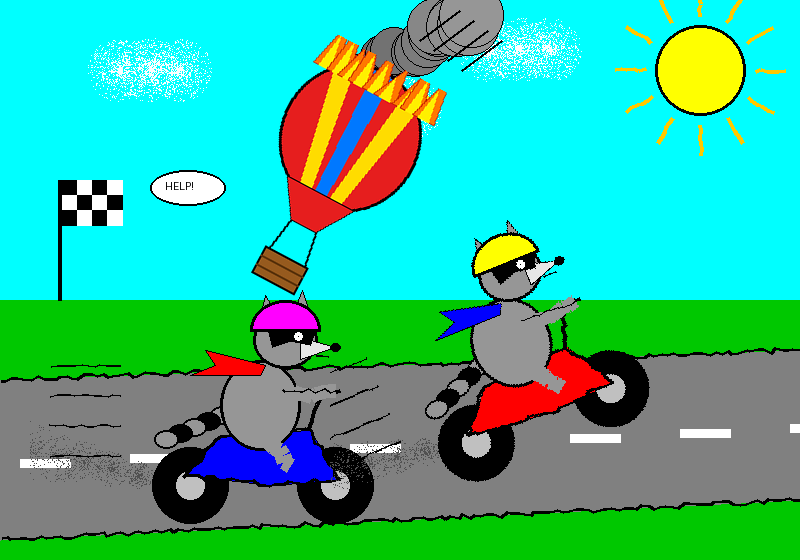
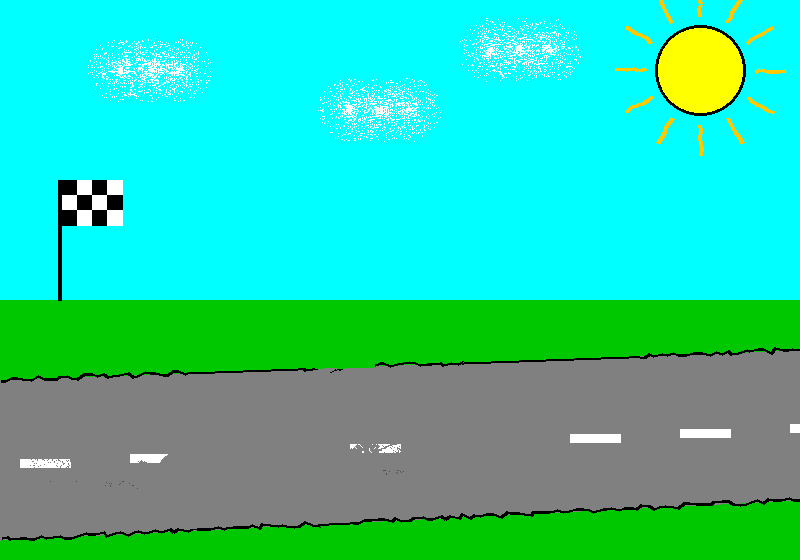
Beta Desktop: Waschbären fahren weg, Ballon explodiert, Pfau frisst ihn
Claude-Session: https://claude.ai/code/session_015oDxNVAJe7JpdMubbo53ma

Changed region(s): [[0.0312, 0.0, 0.8125, 0.9411], [0.1875, 0.3036, 0.2812, 0.3946], [0.0625, 0.6375, 0.0938, 0.6679]]

diff --git a/beta/index.html b/beta/index.html
@@ -350,9 +350,44 @@ main{flex:1;overflow-x:clip;display:grid;grid-template-columns:1fr minmax(320px,
   .key.en{text-shadow:none}
 }
 .key.held{background:var(--yellow);color:var(--ink);border-color:var(--yellow);transform:translateY(3px);border-bottom-width:3px}
+/* Desktop-Szene (User 28.11.): Waschbären fahren nach 30 s weg, Ballon stürzt nach 60 s ab, Pfau frisst ihn nach 90 s */
+.scn{display:none}
+@media (min-width:861px){
+  body{background:transparent!important}
+  .scn{display:block;position:fixed;left:0;top:0;width:800px;height:560px;transform-origin:0 0;z-index:-1;pointer-events:none;overflow:visible}
+  .scn img{position:absolute;display:block;user-select:none}
+  .scn .wb{left:0;top:0;width:800px;height:560px}
+  .scn .bl{left:474px;top:40px;width:132px;transform-origin:50% 100%;animation:bl-sway 4s ease-in-out infinite alternate}
+  .scn .bm,.scn .br{opacity:0}
+  .scn .bm{left:380px;top:190px;width:320px}
+  .scn .br{left:480px;top:305px;width:120px}
+  .scn .pf{position:absolute;left:-600px;top:-76px;width:560px;height:439px;transform-origin:62% 96%}
+  .scn .pf img{left:0;top:0;width:560px}
+  .scn .pf.st img{top:-7px}.scn .pf .p1{visibility:hidden}.scn .pf.st .p1{visibility:visible}.scn .pf.st .p0{visibility:hidden}
+}
+@keyframes bl-sway{from{rotate:-4deg}to{rotate:4deg}}
 </style>
 </head>
 <body>
+<div class="scn" aria-hidden="true"><img class="wb" src="/beta/waschbaeren.png" alt=""><img class="br" src="/beta/brand.png" alt=""><img class="bl" src="/beta/ballon.png" alt=""><img class="bm" src="/beta/boom.png" alt=""><div class="pf"><img class="p0" src="/beta/pfau0.png" alt=""><img class="p1" src="/beta/pfau1.png" alt=""></div></div>
+<script>
+(()=>{const q=new URLSearchParams(location.search),T=+(q.get("scn")||1);/* ?scn=10 = 10x schneller zum Testen */
+const S=document.querySelector(".scn");if(!S)return;const $=c=>S.querySelector(c);
+const fit=()=>{const k=Math.max(innerWidth/800,innerHeight/560);S.style.transform=`translate(${(innerWidth-800*k)/2}px,${(innerHeight-560*k)/2}px) scale(${k})`};fit();addEventListener("resize",fit);
+const at=(sec,f)=>setTimeout(f,sec*1000/T),A=(el,kf,o)=>el.animate(kf,Object.assign({fill:"forwards"},o,{duration:o.duration/T,delay:(o.delay||0)/T}));
+at(30,()=>{const w=$(".wb");A(w,[{transform:"translate(0,0) rotate(0)"},{transform:"translate(-14px,1px) rotate(-1deg)",offset:.12},{transform:"translate(1100px,-30px) rotate(2deg)"}],{duration:3200,easing:"cubic-bezier(.5,0,.9,.6)"})});
+at(60,()=>{const b=$(".bl");b.style.animation="none";A(b,[{transform:"translate(0,0) rotate(0)"},{transform:"translate(10px,40px) rotate(12deg)",offset:.3},{transform:"translate(-6px,128px) rotate(-18deg)"}],{duration:1800,easing:"cubic-bezier(.55,0,1,.45)"});
+  at(1.8,()=>{b.style.opacity=0;const m=$(".bm");A(m,[{opacity:1,transform:"scale(.1) rotate(-20deg)"},{opacity:1,transform:"scale(1.15) rotate(6deg)",offset:.25},{opacity:1,transform:"scale(1) rotate(0)",offset:.6},{opacity:0,transform:"scale(1.3) rotate(4deg)"}],{duration:1600,easing:"ease-out"});
+    A($(".br"),[{opacity:0},{opacity:1}],{duration:400,delay:500});
+    document.documentElement.animate([{transform:"translate(0,0)"},{transform:"translate(-6px,4px)"},{transform:"translate(5px,-3px)"},{transform:"translate(-3px,2px)"},{transform:"translate(0,0)"}],{duration:450})})});
+at(90,()=>{const p=$(".pf");let st=0;const iv=setInterval(()=>{p.classList.toggle("st",st^=1)},260/T);
+  /* Schnabel (bei 84% Breite) über dem Brandfleck: x≈540 */
+  A(p,[{transform:"translateX(0)"},{transform:"translateX(412px)"}],{duration:5000,easing:"linear"}).onfinish=()=>{clearInterval(iv);
+    const R=d=>({transform:`translateX(412px) rotate(${d}deg)`});A(p,[R(0),Object.assign(R(60),{offset:.2}),Object.assign(R(46),{offset:.35}),Object.assign(R(60),{offset:.5}),Object.assign(R(46),{offset:.65}),Object.assign(R(60),{offset:.8}),R(0)],{duration:2600,easing:"ease-in-out"});
+    const br=$(".br");br.getAnimations().forEach(x=>x.cancel());br.style.opacity=1;br.style.transformOrigin="50% 80%";A(br,[{transform:"scale(1)",opacity:1,offset:.18},{transform:"scale(.6)",opacity:1,offset:.5},{transform:"scale(.25)",opacity:1,offset:.72},{transform:"scale(0)",opacity:0,offset:.8},{transform:"scale(0)",opacity:0}],{duration:2600});
+    setTimeout(()=>{const iv2=setInterval(()=>{p.classList.toggle("st",st^=1)},260/T);A(p,[{transform:"translateX(412px)"},{transform:"translateX(1500px)"}],{duration:7000,easing:"linear"}).onfinish=()=>{clearInterval(iv2);p.remove()}},2700/T)}});
+})();
+</script>
 <header class="top">
   <a class="logo" href="/">Monthly Vinyl</a>
   <div class="hicons">
